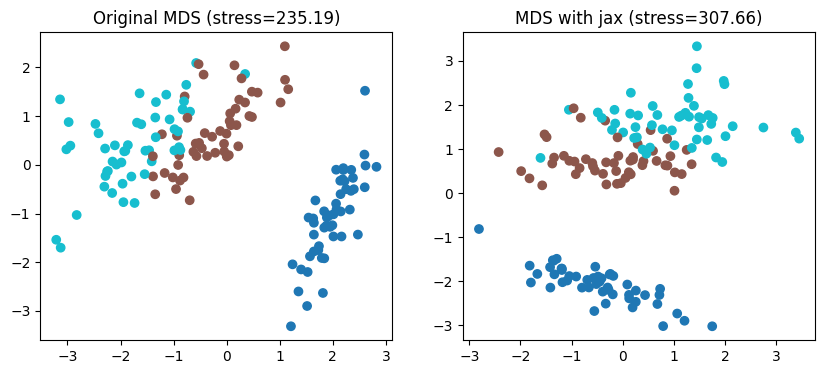
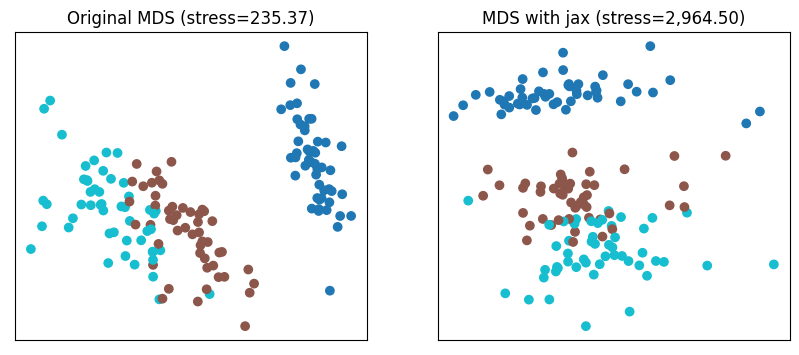
Working version of PMDS with cities_us_toy

diff --git a/pmds/pmds.py b/pmds/pmds.py
@@ -73,6 +73,42 @@ def _ncx2_pdf(x, df, nc):
 ncx2_pdf = jax.jit(_ncx2_pdf)
 
 
+# function to calculate log pdf of X-square for a single input `d` given the params.
+def loss_one_pair0(mu_i, mu_j, s_i, s_j, d, n_components):
+    s_ij = s_i + s_j + EPSILON  # try to avoid divided by zero
+    # make sure d_ij is not zero
+    d_ij = jnp.linalg.norm(mu_i - mu_j) + EPSILON
+    nc = jnp.divide(d_ij ** 2, s_ij)
+    factor = 2 * d / s_ij
+    return -ncx2_log_pdf(x=d * d, df=n_components, nc=nc) - jnp.log(factor)
+
+
+def loss_one_pair(mu_i, mu_j, s_i, s_j, D, n_components):
+    s_ij = s_i + s_j + EPSILON
+    d_ij = jnp.linalg.norm(mu_i - mu_j) + EPSILON
+
+    factor = D / s_ij
+    log_llh = (
+        jnp.log(factor)
+        - 0.5 * (D * D + d_ij * d_ij) / s_ij
+        + jnp.log(i0e(d_ij * factor))
+    )
+    return -log_llh
+
+
+# prepare the log pdf function of one sample to run in batch mode
+loss_and_grads_batched = jax.jit(
+    jax.vmap(
+        # take gradient w.r.t. the 1st, 2nd, 3rd and 4th params
+        jax.value_and_grad(jax.jit(loss_one_pair), argnums=[0, 1, 2, 3]),
+        # parallel for all input params except the last one
+        in_axes=(0, 0, 0, 0, 0, None),
+        # scalar output
+        out_axes=0,
+    )
+)
+
+
 def pmds(
     p_dists,
     n_samples,
@@ -149,25 +185,6 @@ def pmds(
     else:
         dists_with_indices = p_dists
 
-    # function to calculate log pdf of X-square for a single input `d` given the params.
-    def loss_one_pair(mu_i, mu_j, s_i, s_j, d):
-        s_ij = s_i + s_j + EPSILON  # try to avoid divided by zero
-        nc = jnp.divide(jnp.linalg.norm(mu_i - mu_j) ** 2, s_ij)
-        # diff = 0.5 * (d - jnp.linalg.norm(mu_i / s_i - mu_j / s_j)) ** 2
-        return -ncx2_log_pdf(x=d, df=n_components, nc=nc)
-
-    # prepare the log pdf function of one sample to run in batch mode
-    loss_and_grads_batched = jax.jit(
-        jax.vmap(
-            # take gradient w.r.t. the 1st, 2nd, 3rd and 4th params
-            jax.value_and_grad(loss_one_pair, argnums=[0, 1, 2, 3]),
-            # parallel for all input params
-            in_axes=(0, 0, 0, 0, 0),
-            # scalar output
-            out_axes=0,
-        )
-    )
-
     all_loss = []
     for epoch in range(epochs):
         loss = 0.0
@@ -185,9 +202,8 @@ def pmds(
             assert len(mu_i) <= batch_size
 
             # calculate loss and gradients in each batch
-            # TODO think about d_{ij} / (sigma^2_i + sigma^2_j) with very small sigma
             loss_batch, grads = loss_and_grads_batched(
-                mu_i, mu_j, ss_i, ss_j, jnp.array(dists)
+                mu_i, mu_j, ss_i, ss_j, jnp.array(dists), n_components
             )
 
             if jnp.any(jnp.isnan(loss_batch)):
@@ -196,17 +212,16 @@ def pmds(
                     "Check if the `nc` params of X-square distribution are non-positive"
                 )
             for i, grad in enumerate(grads):
-                for j, (l, g) in enumerate(zip(loss_batch, grad)):
-                    if jnp.any(jnp.isnan(g)):
-                        print(j, l, g, dists[j], pair_indices[j])
-                        j0, j1 = pair_indices[j]
-                        print(mu_i[j0], mu_j[j0], ss_i[j0], ss_j[j1])
-                        print(
-                            loss_one_pair(
-                                mu_i[j0], mu_j[j0], ss_i[j0], ss_j[j1], dists[j]
-                            )
-                        )
-                        raise ValueError(f"Nan encountered in grads[{i}]")
+                if jnp.any(jnp.isnan(grad)):
+                    print(grad)
+                    raise ValueError(
+                        f"Nan encountered in grads[{i}]: ",
+                        (
+                            "mu_i and mu_j are too close that make nc~0"
+                            if i < 2
+                            else "ss_i and ss_j have problem (zero values, ...)"
+                        ),
+                    )
 
             loss += jnp.sum(loss_batch)
 
@@ -217,7 +232,7 @@ def pmds(
             assert grads_mu.shape[0] == grads_ss.shape[0] == len(related_indices)
 
             # update gradient for mu
-            mu = jax.ops.index_add(mu, related_indices, -grads_mu)
+            mu = jax.ops.index_add(mu, related_indices, -grads_mu / len(i0))
 
             # update gradient for constrained variable ss
             # first, calculate gradient for unconstrained variable ss_unc
@@ -225,7 +240,7 @@ def pmds(
                 grads_ss * jax.nn.sigmoid(SCALE * ss_unc[related_indices]) * SCALE
             )
             # then, update the unconstrained variable ss_unc
-            ss_unc = jax.ops.index_add(ss_unc, related_indices, -grads_ss_unc)
+            ss_unc = jax.ops.index_add(ss_unc, related_indices, -grads_ss_unc / len(i0))
 
             # correct gradient for fixed points
             if fixed_points:
@@ -242,7 +257,7 @@ def pmds(
         mlflow.log_metric("stress", mds_stress)
         print(
             f"[DEBUG] epoch {epoch}, loss: {loss:.2f}, stress: {mds_stress:,.2f}"
-            f" mu in [{float(jnp.min(mu)):.3f}, {float(jnp.max(mu)):.3f}], "
+            # f" mu in [{float(jnp.min(mu)):.3f}, {float(jnp.max(mu)):.3f}], "
             # f" ss_unc in [{float(jnp.min(ss_unc)):.3f}, {float(jnp.max(ss_unc)):.3f}]"
         )
 

diff --git a/pmds/config.py b/pmds/config.py
@@ -7,14 +7,14 @@ pre_config = {
             n_samples=None,  # 150
             n_components=2,
             batch_size=0,
-            epochs=40,
-            learning_rate=150,
+            epochs=20,
+            learning_rate=1,
             random_state=42,
             std=True,  # standardize
             pca=None,
             fixed_points=[],
-            epochs_mds=20,
-            learning_rate_mds=2.5,
+            epochs_mds=2,
+            learning_rate_mds=10,
             batch_size_mds=2000,
         ),
         "iris_mini": dict(
@@ -36,13 +36,13 @@ pre_config = {
             n_samples=150,  # 1797
             n_components=2,
             batch_size=0,
-            epochs=75,
-            learning_rate=150,
+            epochs=25,
+            learning_rate=160,
             random_state=42,
             std=False,  # digits already in [0, 1]
             pca=None,
-            epochs_mds=50,
-            learning_rate_mds=100,
+            epochs_mds=20,
+            learning_rate_mds=140,
             batch_size_mds=4000,
         ),
         "digits_mini": dict(
@@ -108,13 +108,18 @@ pre_config = {
             n_samples=None,  # 10
             n_components=2,
             batch_size=0,
-            epochs=20,
-            learning_rate=0.2,
-            random_state=42,
+            epochs=25,
+            learning_rate=2.0,
+            random_state=2020,
             std=False,
             pca=None,
             # fixed_points=[(0, 0.0, 0.0)],
             # fixed_points=[(6, 0.0, 0.0), (0, 0.5, -0.1), (5, 0.25, -0.6)],
+            fixed_points=[
+                (0, 0.825, 0.12),  # New York
+                # (6, 0.65, 0.09),  # Olympia
+                #
+            ],
             ### params for MDS-jax
             epochs_mds=10,
             learning_rate_mds=10,

diff --git a/run_pmds.py b/run_pmds.py
@@ -17,7 +17,8 @@ def run_pdms(D, N, args, labels=None):
     assert len(D) == len(all_pairs)
 
     # PMDS use squared Euclidean distances
-    sq_dists_with_indices = list(zip(D ** 2, all_pairs))
+    # NOTE now PMDS use Euclidean distance (not squared)
+    sq_dists_with_indices = list(zip(D, all_pairs))
     n_pairs = len(sq_dists_with_indices)
 
     # create non-complete data: sample from pairwise distances

diff --git a/pmds/plot.py b/pmds/plot.py
@@ -12,8 +12,8 @@ def line(points, out_name="line.png"):
 
 def scatter(Z, Z_vars=None, labels=None, title="", ax=None, out_name="Z.png"):
     fig, ax = plt.subplots(1, 1, figsize=(6, 6)) if ax is None else (None, ax)
-    ax.set_xticks([])
-    ax.set_yticks([])
+    # ax.set_xticks([])
+    # ax.set_yticks([])
 
     p = {} if Z_vars is None else {"marker": "+"}
     if labels is None:
